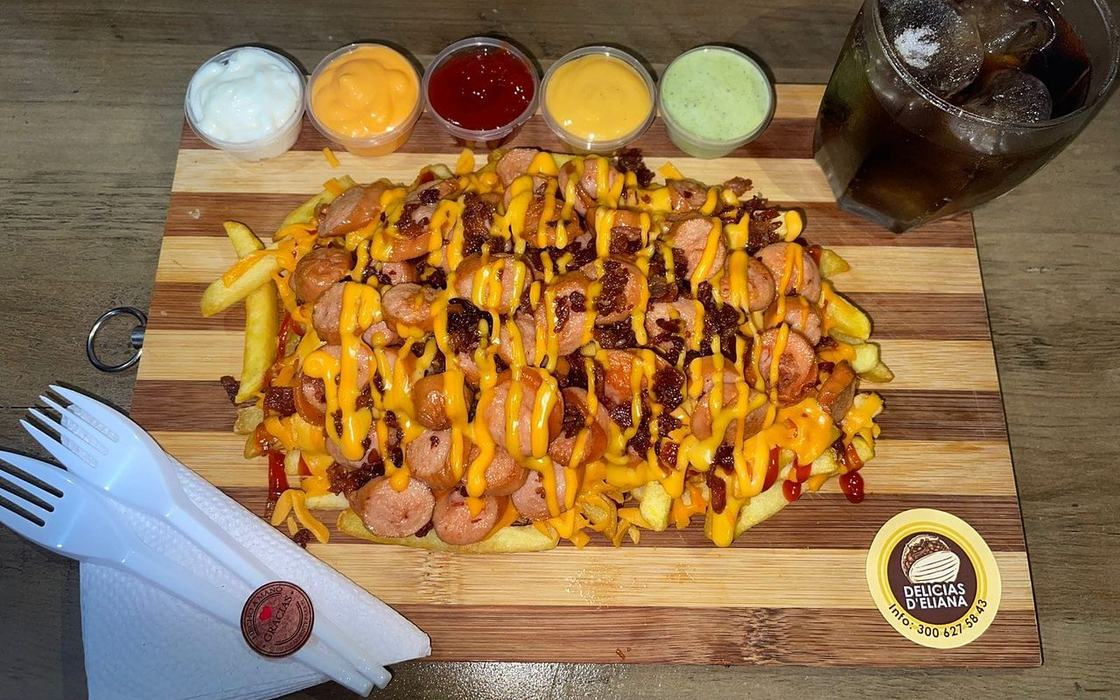
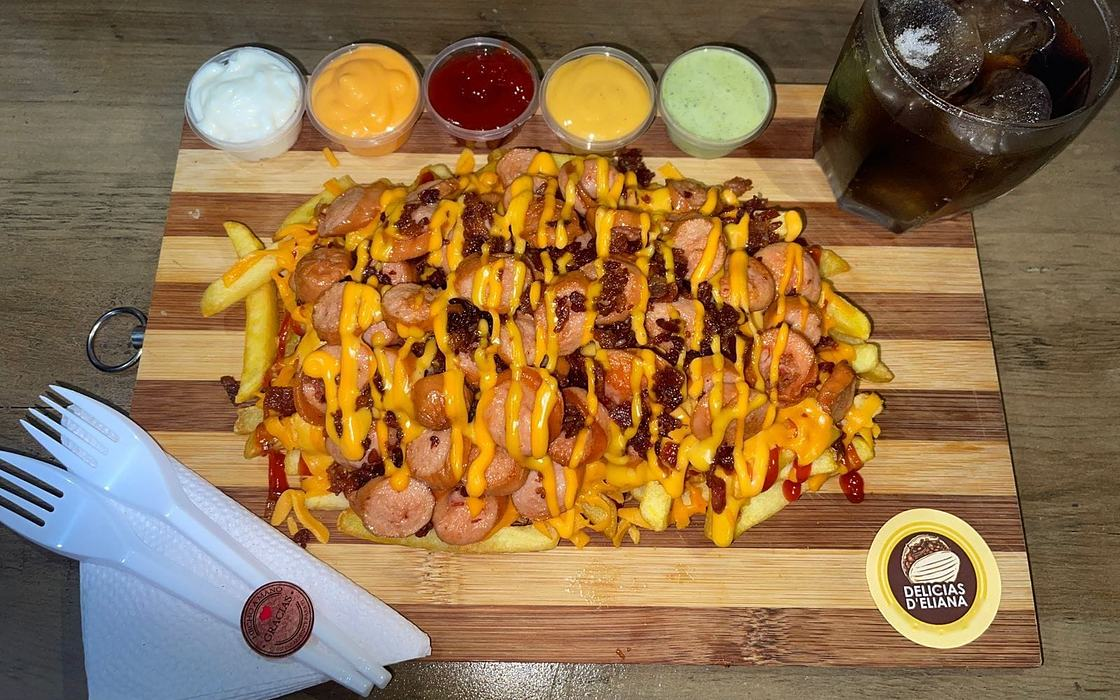
Delicias Eliana: quita el teléfono de las etiquetas en las fotos
Claude-Session: https://claude.ai/code/session_017GrYTxh4pmDvanja5f76Yu

Changed region(s): [[0.7812, 0.87, 0.875, 0.93]]

diff --git a/delicias-eliana/sw.js b/delicias-eliana/sw.js
@@ -1,5 +1,5 @@
 // Primero la red, para que precios y menú estén siempre al día; la copia guardada solo se usa sin conexión.
-var CACHE = 'delicias-eliana-v10';
+var CACHE = 'delicias-eliana-v11';
 self.addEventListener('install', function (e) {
   e.waitUntil(caches.open(CACHE).then(function (c) { return c.addAll(['./', 'img/logo.webp']); }).then(function () { return self.skipWaiting(); }));
 });
